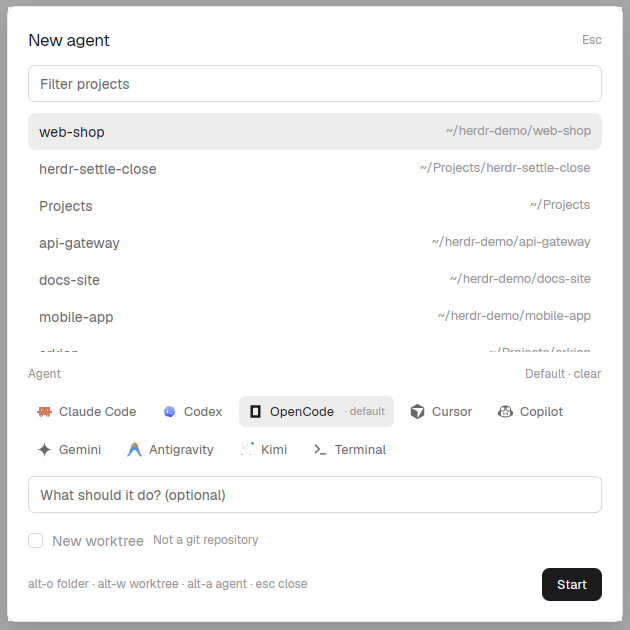
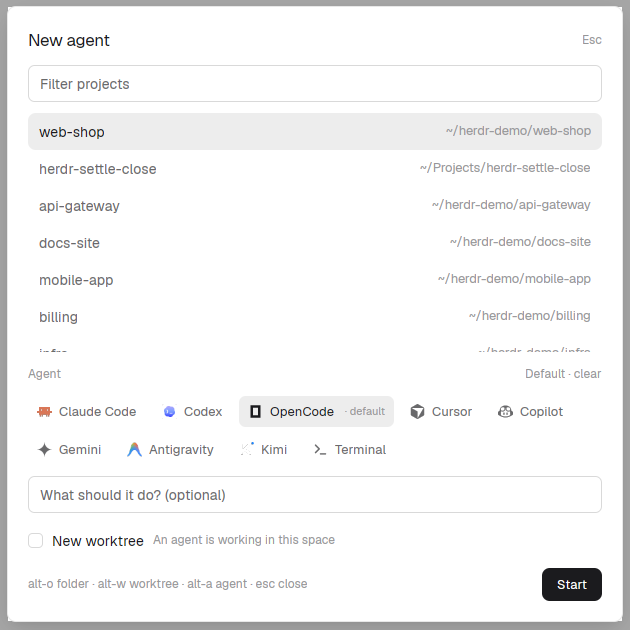
docs: retake screenshots and release 0.2.0
The New agent shot now shows a git project, and the overview has no
leftover rows from the session that took it.

diff --git a/CHANGELOG.md b/CHANGELOG.md
@@ -1,6 +1,6 @@
 # Changelog
 
-## Unreleased
+## 0.2.0 — 2026-11-01
 
 - **Renamed to Agents first** (`herdr-agents-first`). The layout is now
   `agents-first` and ships as `install/agents-first.json`: herdr.dev does not
